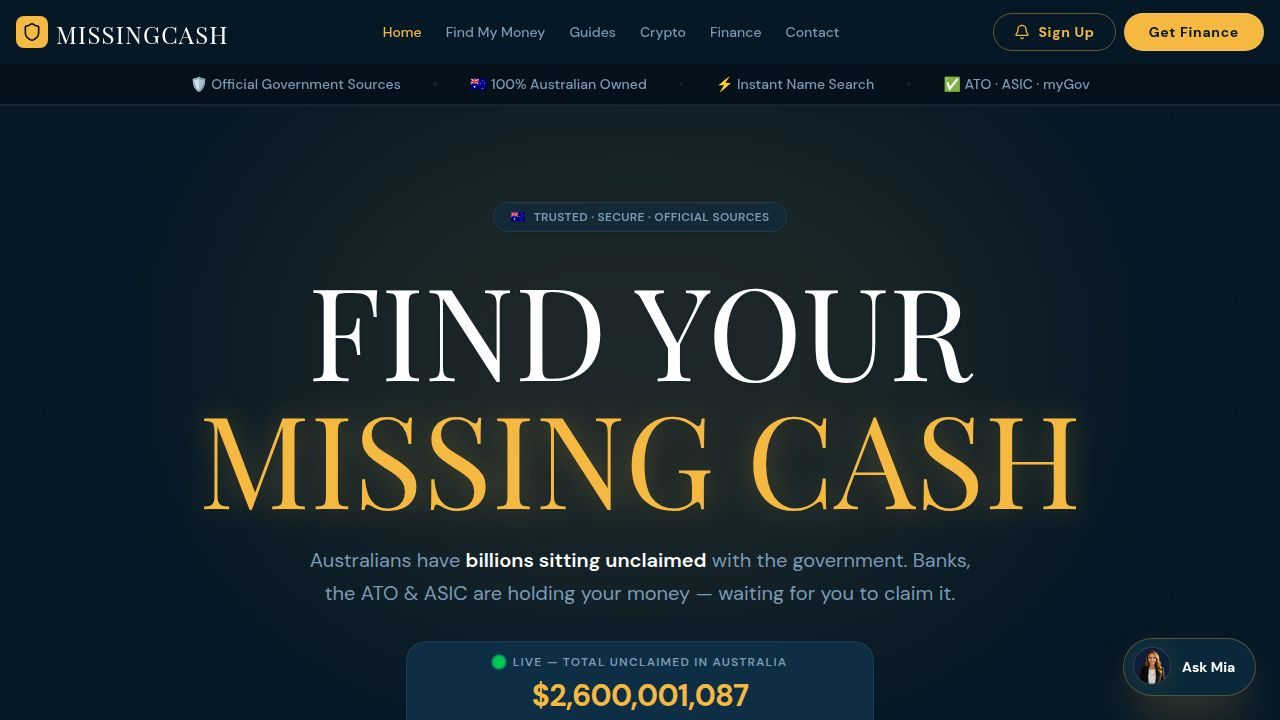
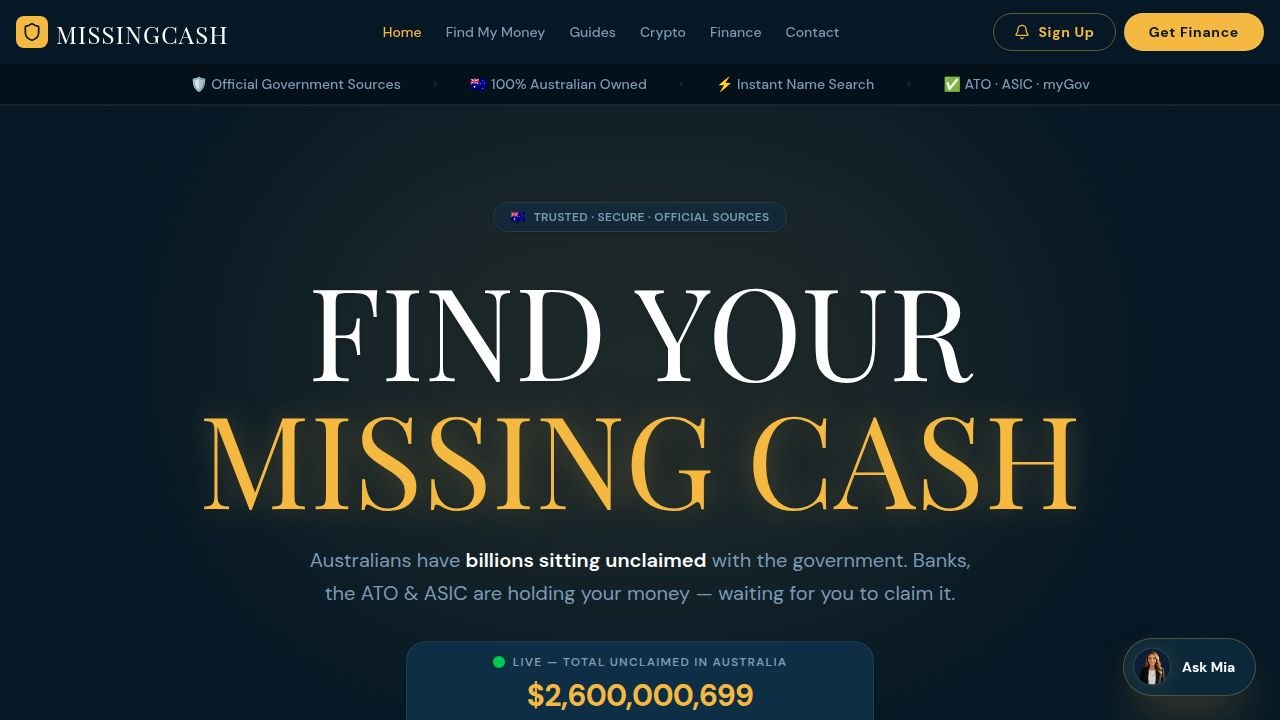
Adjust text position on gift card to align left
Modify the positioning of the "$100" text element on the gift card image within Home.tsx from centered (`inset-x-0 text-center`) to left-aligned (`left-2`).

Replit-Commit-Author: Agent
Replit-Commit-Session-Id: 826f48f5-a842-46a0-bdf7-ed06c2bd6792
Replit-Commit-Checkpoint-Type: full_checkpoint
Replit-Commit-Event-Id: fb3f0a9f-b28e-4012-9564-1fcdf38b77f8
Replit-Commit-Screenshot-Url: https://storage.googleapis.com/screenshot-production-us-central1/d2c17132-279e-4c62-a827-c3c79ae46ec2/826f48f5-a842-46a0-bdf7-ed06c2bd6792/SodWPyP
Replit-Helium-Checkpoint-Created: true

Changed region(s): [[0.4062, 0.9472, 0.5938, 1.0]]

diff --git a/artifacts/missingcash/src/pages/Home.tsx b/artifacts/missingcash/src/pages/Home.tsx
@@ -151,7 +151,7 @@ export default function Home() {
                 </div>
                 <div className="relative">
                   <img src="/fuel-gift-card.png" alt="$100 Fuel Gift Card" className="h-16 w-auto rounded-lg shadow-md" />
-                  <span className="absolute inset-x-0 top-0.5 text-center font-black text-white text-lg drop-shadow-[0_2px_4px_rgba(0,0,0,0.9)] leading-none">$100</span>
+                  <span className="absolute left-2 top-0.5 font-black text-white text-lg drop-shadow-[0_2px_4px_rgba(0,0,0,0.9)] leading-none">$100</span>
                 </div>
                 <span className="text-xs font-bold text-primary uppercase tracking-widest">MissingCash</span>
               </div>